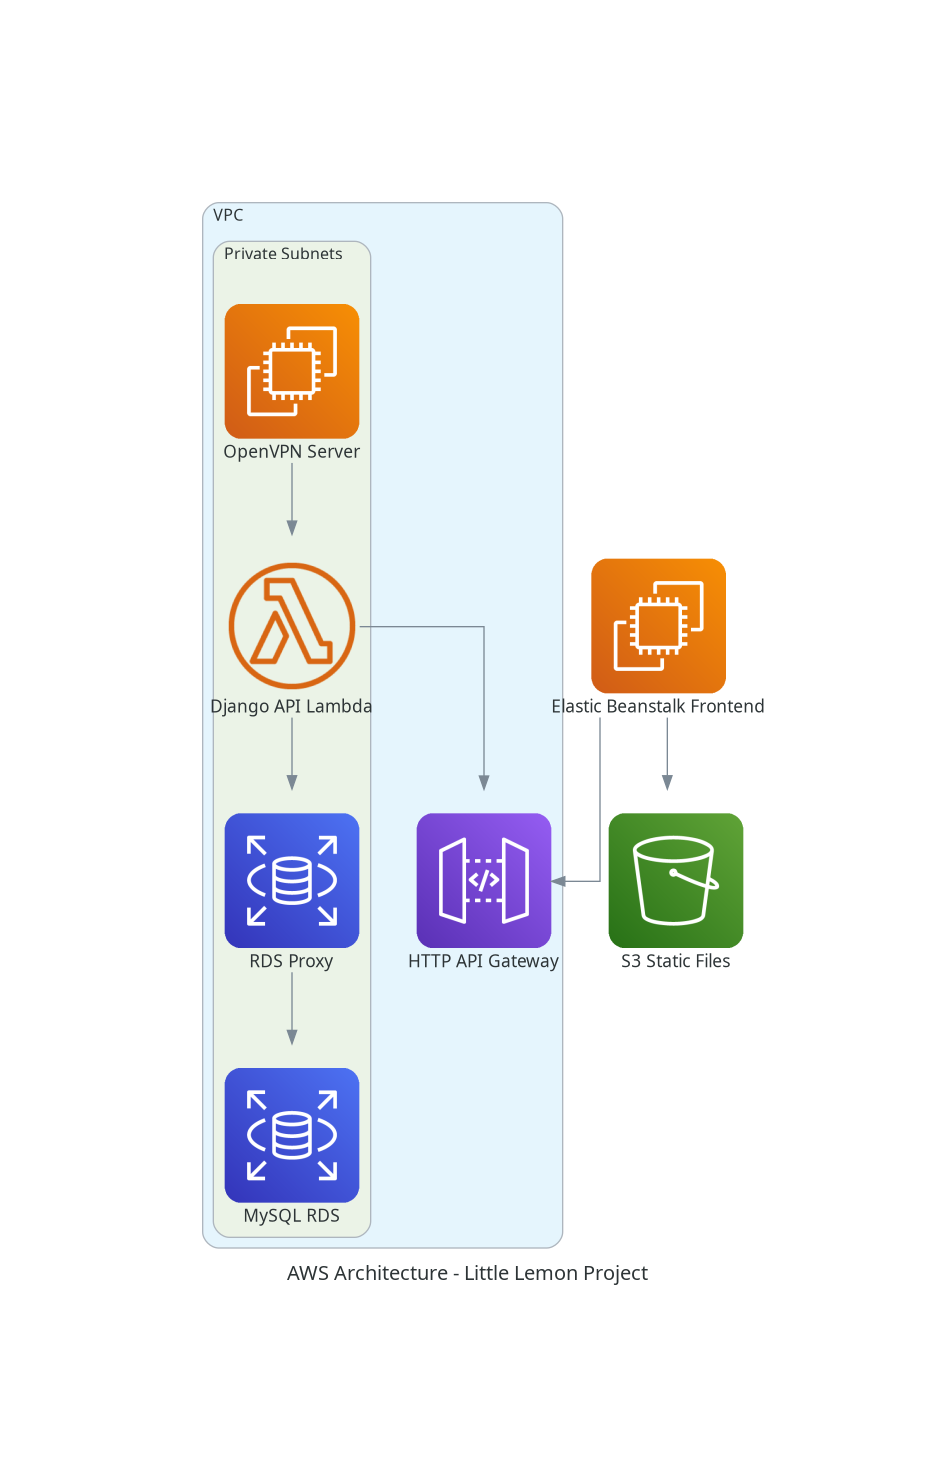
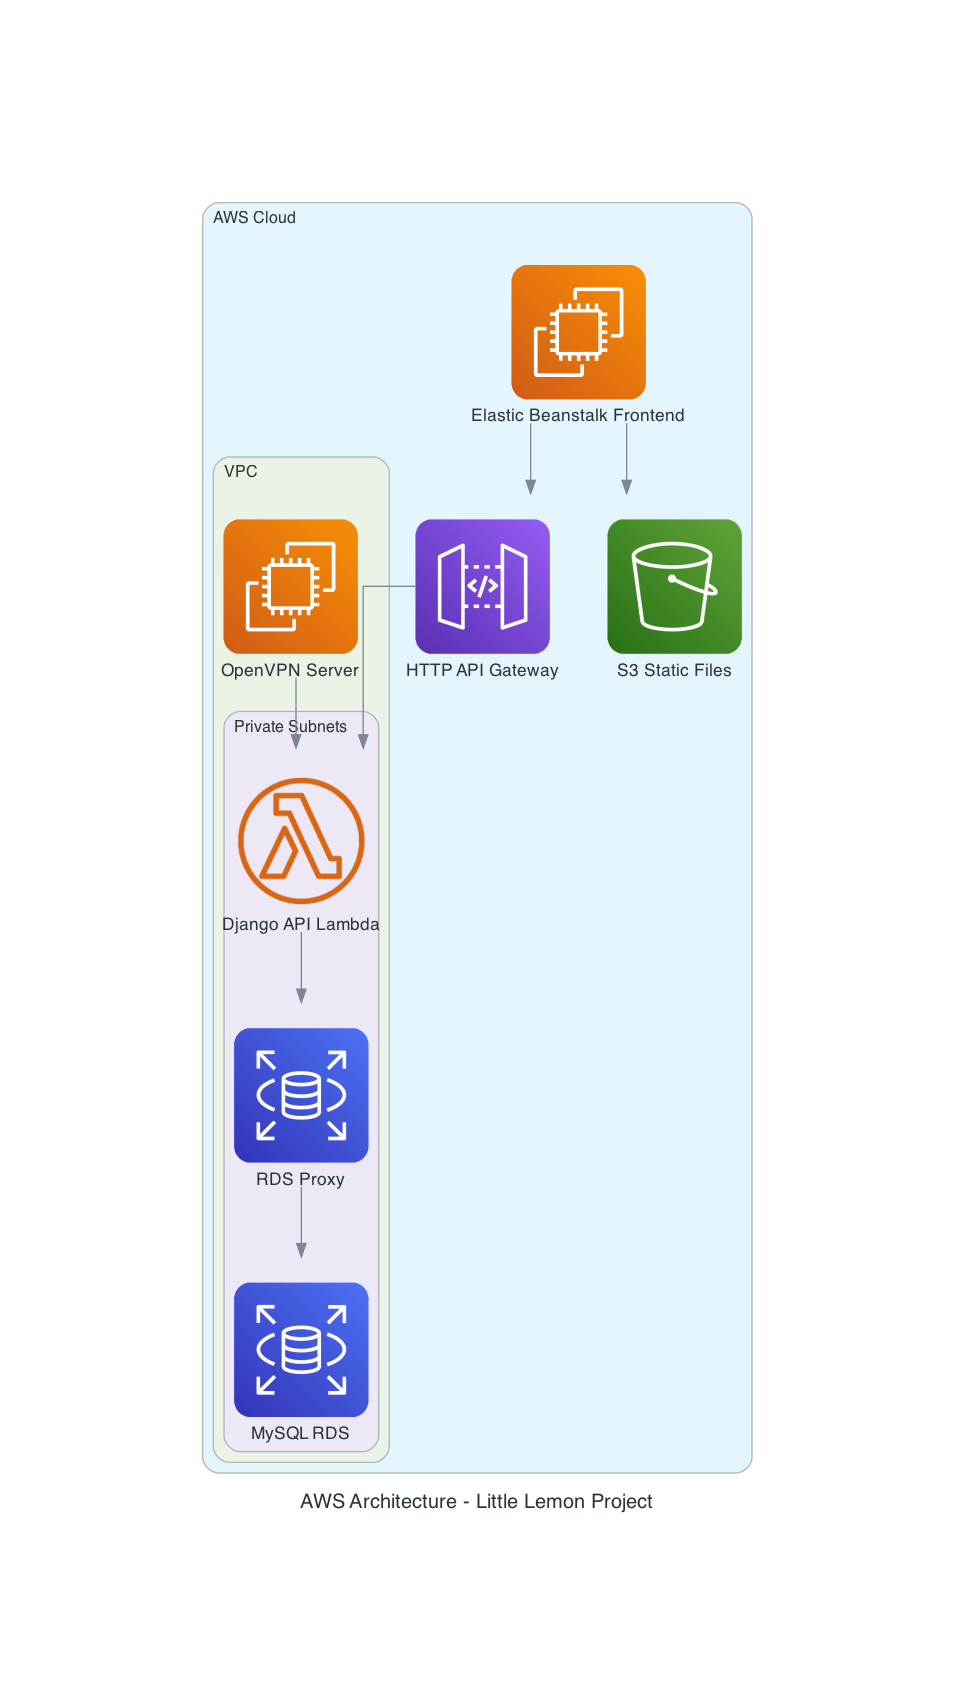
docs: Diagram AWS architeture modified

Changed region(s): [[0.1861, 0.093, 0.8064, 0.8989]]

diff --git a/littlelemon-documentation/diagram.py b/littlelemon-documentation/diagram.py
@@ -3,25 +3,24 @@ from diagrams.aws.compute import LambdaFunction, EC2
 from diagrams.aws.database import RDS
 from diagrams.aws.network import APIGateway
 from diagrams.aws.storage import S3
-from diagrams.aws.devtools import CloudDevelopmentKit
 
 with Diagram("AWS Architecture - Little Lemon Project", show=True, direction="TB"):
 
-    with Cluster("VPC"):
-        with Cluster("Private Subnets"):
-            lambda_fn = LambdaFunction("Django API Lambda")
-            rds_proxy = RDS("RDS Proxy")
-            rds = RDS("MySQL RDS")
+    with Cluster("AWS Cloud"):
+        api_gateway = APIGateway("HTTP API Gateway")
+        s3 = S3("S3 Static Files")
+        beanstalk = EC2("Elastic Beanstalk Frontend")
+
+        with Cluster("VPC"):
+            with Cluster("Private Subnets"):
+                lambda_fn = LambdaFunction("Django API Lambda")
+                rds_proxy = RDS("RDS Proxy")
+                rds = RDS("MySQL RDS")
+                lambda_fn >> rds_proxy >> rds
+
             openvpn = EC2("OpenVPN Server")
 
-            lambda_fn >> rds_proxy >> rds
-
-        api_gateway = APIGateway("HTTP API Gateway")
-        lambda_fn >> api_gateway
-
-    s3 = S3("S3 Static Files")
-    beanstalk = EC2("Elastic Beanstalk Frontend")
-
-    beanstalk >> api_gateway
-    beanstalk >> s3
-    openvpn >> lambda_fn
+        api_gateway >> lambda_fn
+        beanstalk >> api_gateway
+        beanstalk >> s3
+        openvpn >> lambda_fn
